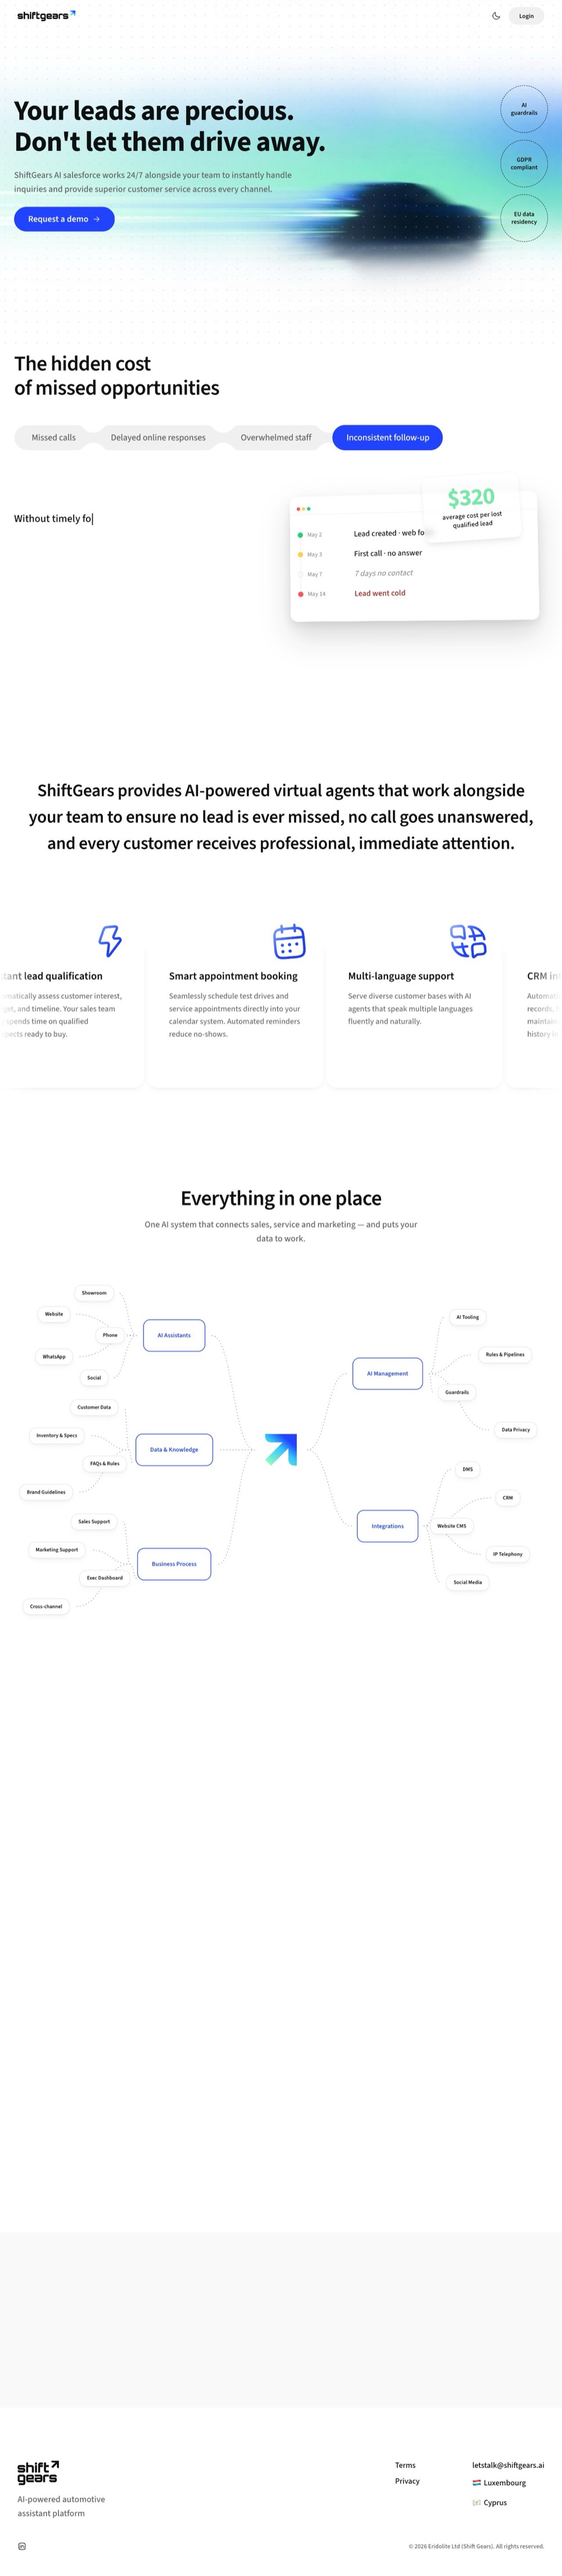
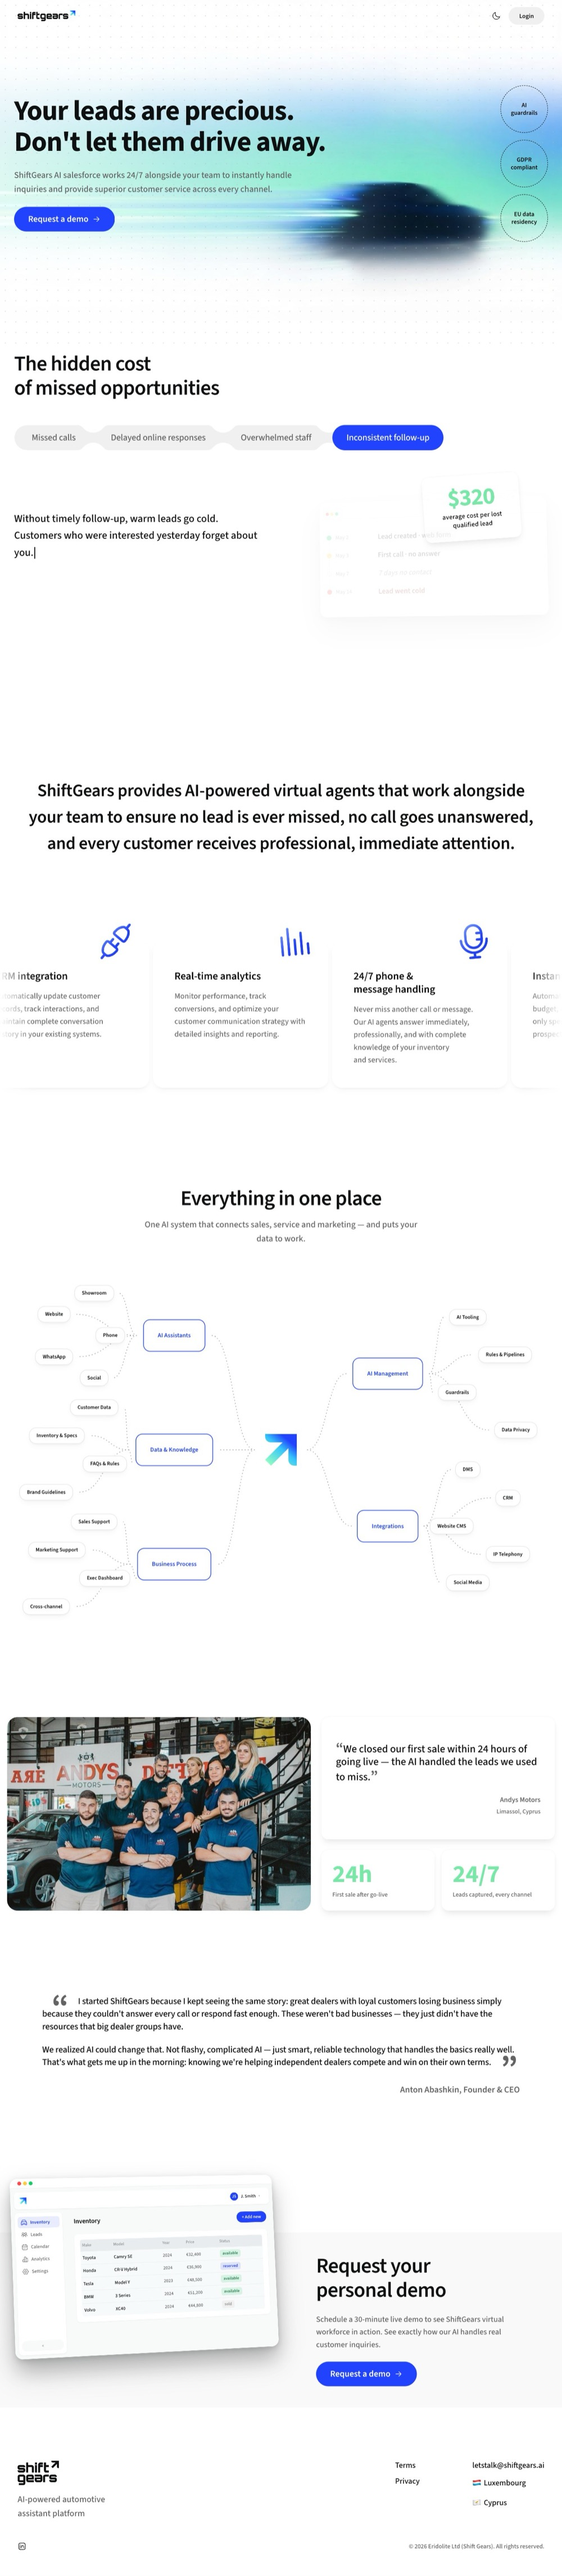
feat: фото в меню, единая ширина контента, без облака тегов; правки блога
- SiteMenu: вместо точки — фото Марии (static/img/mashku-avatar.jpg). В
  развёрнутом меню аватар сверху по центру, наполовину над верхней границей;
  в схлопнутом — маленький кружок. Дефолт позиции опущен под аватар.
- Главная: убрано облако тегов (и логика фильтра). Избранные блоки больше не
  выламываются на 100vw, а остаются в колонке .body — единая ширина контента
  на всех страницах, меню не наезжает на полноширинный контент.
- ShiftGears: обложка-скриншот переснята целиком (раньше секция не догружалась
  и внизу была пустота).
- Блог: обложка канала — круглая; нижняя кнопка «To the channel» / «В канал».

diff --git a/src/components/portfolio-showcase/PortfolioShowcase.tsx b/src/components/portfolio-showcase/PortfolioShowcase.tsx
@@ -33,39 +33,18 @@ function cardTags(item: PortfolioItem) {
  * показываются сразу, дисциплины и теги — прямо на карточках.
  */
 export default function PortfolioShowcase({ items }: Props) {
-  // Активный тег из облака: null → показываем все проекты; иначе — только с этим тегом.
-  const [activeTag, setActiveTag] = useState<string | null>(null);
-
-  const filtered = useMemo(
-    () => (activeTag ? items.filter((i) => cardTags(i).includes(activeTag)) : items),
-    [items, activeTag],
-  );
   // Избранные проекты с крупными обложками (Posmotrim — интерактивный мокап,
   // ShiftGears — обложка-скриншот). Остальные — обычной сеткой.
-  const posmotrim = useMemo(() => filtered.find((i) => i.url.includes('posmotrim')), [filtered]);
-  const shift = useMemo(() => filtered.find((i) => i.url.includes('shiftgears')), [filtered]);
+  const posmotrim = useMemo(() => items.find((i) => i.url.includes('posmotrim')), [items]);
+  const shift = useMemo(() => items.find((i) => i.url.includes('shiftgears')), [items]);
   const rest = useMemo(
-    () => filtered.filter((i) => i !== posmotrim && i !== shift),
-    [filtered, posmotrim, shift],
+    () => items.filter((i) => i !== posmotrim && i !== shift),
+    [items, posmotrim, shift],
   );
 
-  // Облако тегов: частота дисциплин+тегов по всем проектам → размер и насыщенность.
-  const cloud = useMemo(() => {
-    const counts = new Map<string, number>();
-    for (const it of items) {
-      for (const t of [...it.disciplines, ...it.tags]) counts.set(t, (counts.get(t) ?? 0) + 1);
-    }
-    const max = Math.max(1, ...[...counts.values()]);
-    return [...counts.entries()]
-      .sort((a, b) => b[1] - a[1])
-      .map(([tag, count]) => ({ tag, w: count / max }));
-  }, [items]);
-
-  // Поэтапное появление: облако и контент въезжают по мере скролла.
-  const bandRef = useRef<HTMLDivElement>(null);
+  // Поэтапное появление контента по мере скролла.
   const contentRef = useRef<HTMLDivElement>(null);
   const gridRef = useRef<HTMLUListElement>(null);
-  const [cloudIn, setCloudIn] = useState(false);
   const [cardsIn, setCardsIn] = useState(false);
 
   useEffect(() => {
@@ -73,21 +52,17 @@ export default function PortfolioShowcase({ items }: Props) {
       typeof window !== 'undefined' &&
       window.matchMedia?.('(prefers-reduced-motion: reduce)').matches;
     if (typeof IntersectionObserver === 'undefined' || reduce) {
-      setCloudIn(true);
       setCardsIn(true);
       return;
     }
     const obs = new IntersectionObserver(
       (entries) => {
         for (const e of entries) {
-          if (!e.isIntersecting) continue;
-          if (e.target === bandRef.current) setCloudIn(true);
-          if (e.target === contentRef.current) setCardsIn(true);
+          if (e.isIntersecting && e.target === contentRef.current) setCardsIn(true);
         }
       },
       { threshold: 0.12 },
     );
-    if (bandRef.current) obs.observe(bandRef.current);
     if (contentRef.current) obs.observe(contentRef.current);
     return () => obs.disconnect();
   }, []);
@@ -150,30 +125,6 @@ export default function PortfolioShowcase({ items }: Props) {
 
   return (
     <section className={styles.showcase}>
-      {/* Облако тегов — на всю ширину вьюпорта (брейк-аут из колонки .body). */}
-      <div ref={bandRef} className={`${styles.band} ${cloudIn ? styles.bandIn : ''}`}>
-        <div className={styles.cloud} role="group" aria-label="Фильтр по тегам">
-          {cloud.map(({ tag, w }) => {
-            const active = activeTag === tag;
-            return (
-              <button
-                type="button"
-                key={tag}
-                className={`${styles.cloudTag} ${active ? styles.cloudTagActive : ''}`}
-                aria-pressed={active}
-                onClick={() => setActiveTag((cur) => (cur === tag ? null : tag))}
-                style={{
-                  fontSize: `${(0.95 + w * 1.3).toFixed(2)}rem`,
-                  opacity: active || !activeTag ? (0.5 + w * 0.5).toFixed(2) : 0.3,
-                }}
-              >
-                {tag}
-              </button>
-            );
-          })}
-        </div>
-      </div>
-
       <div ref={contentRef}>
         {/* Избранные проекты крупными обложками. */}
         {posmotrim && renderFeatured(posmotrim, <PosmotrimMockup />, false)}

diff --git a/src/components/portfolio-showcase/portfolio-showcase.module.css b/src/components/portfolio-showcase/portfolio-showcase.module.css
@@ -2,67 +2,8 @@
   padding: var(--space-10) 0;
 }
 
-/* Полоса облака тегов — брейк-аут из колонки .body на всю ширину вьюпорта. */
-.band {
-  width: 100vw;
-  margin-inline: calc(50% - 50vw);
-  padding: var(--space-lg) 0;
-  margin-bottom: var(--space-10);
-  /* Появление по мере скролла (класс .bandIn добавляет JS). */
-  opacity: 0;
-  transform: translateY(18px);
-  transition:
-    opacity var(--duration-slow, 0.6s) var(--ease-default),
-    transform var(--duration-slow, 0.6s) var(--ease-default);
-}
-
-.bandIn {
-  opacity: 1;
-  transform: none;
-}
-
-/* Облако тегов (частота дисциплин+тегов по всем проектам). Размер и насыщенность
-   каждого тега задаются инлайн по данным; типографика — как в заголовках. */
-.cloud {
-  max-width: var(--layout-max-width);
-  margin: 0 auto;
-  padding: 0 var(--layout-padding);
-  display: flex;
-  flex-wrap: wrap;
-  justify-content: center;
-  align-items: baseline;
-  gap: var(--space-sm) var(--space-lg);
-}
-
-.cloudTag {
-  padding: 0;
-  border: none;
-  background: none;
-  cursor: pointer;
-  font-family: var(--ifm-heading-font-family);
-  font-weight: var(--font-weight-5);
-  line-height: 1.1;
-  color: var(--color-text-primary);
-  transition:
-    transform var(--duration-fast) var(--ease-default),
-    color var(--duration-fast) var(--ease-default),
-    opacity var(--duration-fast) var(--ease-default);
-}
-
-.cloudTag:hover {
-  transform: translateY(-2px);
-  color: var(--color-accent);
-}
-
-/* Активный тег фильтра — акцентным цветом. */
-.cloudTagActive,
-.cloudTagActive:hover {
-  color: var(--color-accent);
-}
-
 @media (prefers-reduced-motion: reduce) {
   /* Без анимаций появления — контент сразу на месте. */
-  .band,
   .cardItem,
   .featured {
     opacity: 1;
@@ -71,13 +12,10 @@
   }
 }
 
-/* Избранный проект: обложка + описание РЯДОМ (flex-ряд). Контент центрируется
-   в пределах ~92rem. mirror → обложка справа, описание слева. */
+/* Избранный проект: обложка + описание РЯДОМ (flex-ряд). Остаётся в колонке .body
+   (единая ширина контента на всех страницах). mirror → обложка справа, описание слева. */
 .featured {
-  width: 100vw;
-  margin-inline: calc(50% - 50vw);
-  box-sizing: border-box;
-  padding: var(--space-xl) max(var(--layout-padding), calc((100vw - 92rem) / 2)) var(--space-2xl);
+  padding: var(--space-xl) 0 var(--space-2xl);
   margin-bottom: var(--space-10);
   display: flex;
   flex-wrap: wrap;

diff --git a/src/components/site-menu/site-menu.module.css b/src/components/site-menu/site-menu.module.css
@@ -30,20 +30,42 @@
   cursor: pointer;
 }
 
-/* Схлопнутое состояние: компактный блоб. Разворачивается по ховеру. */
+/* Схлопнутое состояние: компактный кружок (с фото). Разворачивается по ховеру. */
 .collapsed {
-  padding: var(--space-sm);
+  padding: var(--space-xs);
   align-items: center;
-  border-radius: 46% 54% 57% 43% / 54% 46% 54% 46%;
+  border-radius: 50%;
 }
 
-/* Точка в схлопнутом левом меню. */
-.dot {
-  width: var(--space-4);
-  height: var(--space-4);
+/* Аватар Марии. В развёрнутом меню — сверху по центру, наполовину над границей. */
+.avatar {
+  position: absolute;
+  top: 0;
+  left: 50%;
+  transform: translate(-50%, -50%);
+  width: 2.5rem;
+  height: 2.5rem;
   border-radius: 50%;
-  background: var(--color-accent);
+  object-fit: cover;
+  border: var(--border-size-2) solid var(--color-surface);
+  box-shadow: var(--shadow-tag);
+  z-index: 1;
   animation: menu-pop var(--duration-normal) var(--ease-default);
+}
+
+/* Развёрнутое меню: отступ сверху под нижнюю половину аватара. */
+.menu:not(.collapsed) {
+  padding-top: calc(1.25rem + var(--space-md));
+}
+
+/* Схлопнутое меню: аватар — маленький кружок в потоке (вместо точки). */
+.collapsed .avatar {
+  position: static;
+  transform: none;
+  width: var(--space-5);
+  height: var(--space-5);
+  border: none;
+  box-shadow: none;
 }
 
 /* Обёртка последнего использованного контрола в схлопнутой правой плашке. */
@@ -123,7 +145,7 @@
     transition: opacity var(--duration-normal) var(--ease-default);
   }
 
-  .dot,
+  .avatar,
   .blob,
   .list,
   .settingsBody {

diff --git a/src/components/site-menu/SiteMenu.tsx b/src/components/site-menu/SiteMenu.tsx
@@ -28,8 +28,9 @@ export default function SiteMenu() {
   const baseUrl = useBaseUrl('/');
   const { rootRef, style, onPointerDown, onClickCapture } = useDraggable(
     'siteMenuPos',
-    { top: 16, left: 16 },
+    { top: 44, left: 16 }, // с запасом сверху — аватар наполовину выступает над меню
   );
+  const avatarUrl = useBaseUrl('/img/mashku-avatar.jpg');
 
   const scrolled = useScrolledDown();
   const [hovered, setHovered] = useState(false);
@@ -51,9 +52,13 @@ export default function SiteMenu() {
       onPointerEnter={() => setHovered(true)}
       onPointerLeave={() => setHovered(false)}
     >
-      {collapsed ? (
-        <span className={styles.dot} aria-hidden="true" />
-      ) : (
+      <img
+        className={styles.avatar}
+        src={avatarUrl}
+        alt={isRu ? 'Мария Куликова' : 'Mariia Kulikova'}
+        draggable={false}
+      />
+      {!collapsed && (
         <ul className={styles.list}>
           {ITEMS.map((item) => {
             const active = item.to === '/' ? rel === '/' : rel.startsWith(item.to);

diff --git a/src/styles/blog.css b/src/styles/blog.css
@@ -13,7 +13,7 @@
 .blog-cover {
   width: 9rem;
   height: 9rem;
-  border-radius: var(--radius-lg);
+  border-radius: 50%;
   object-fit: cover;
   box-shadow: var(--shadow-tag);
 }
